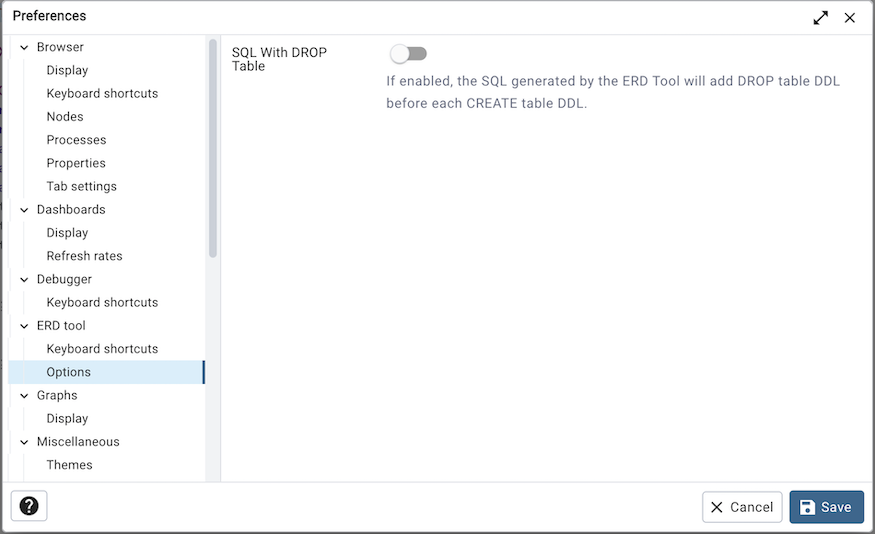
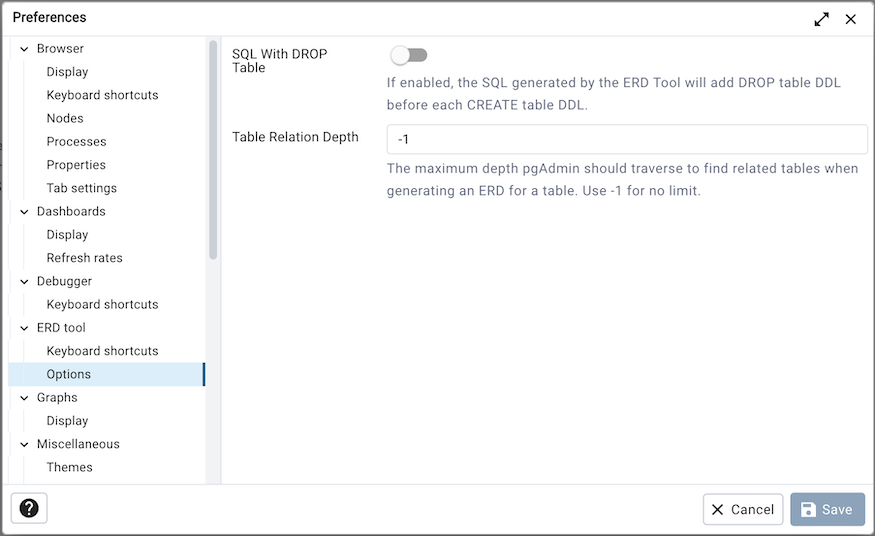
Allow to generate ERD for a table. #4756

diff --git a/web/pgadmin/tools/erd/static/js/erd_tool/components/ERDTool.jsx b/web/pgadmin/tools/erd/static/js/erd_tool/components/ERDTool.jsx
@@ -355,7 +355,6 @@ class ERDTool extends React.Component {
     } else {
       window.removeEventListener('beforeunload', this.onBeforeUnload);
     }
-    
   }
 
   componentWillUnmount() {
@@ -660,7 +659,7 @@ class ERDTool extends React.Component {
   }
 
   onSQLClick(sqlWithDrop=false) {
-    let scriptHeader = gettext('-- This script was generated by a beta version of the ERD tool in pgAdmin 4.\n');
+    let scriptHeader = gettext('-- This script was generated by the ERD tool in pgAdmin 4.\n');
     scriptHeader += gettext('-- Please log an issue at https://redmine.postgresql.org/projects/pgadmin4/issues/new if you find any bugs, including reproduction steps.\n');
 
     let url = url_for('erd.sql', {
@@ -926,12 +925,18 @@ class ERDTool extends React.Component {
         sgid: parseInt(this.props.params.sgid),
         sid: parseInt(this.props.params.sid),
         did: parseInt(this.props.params.did),
+        scid: this.props.params.scid ? parseInt(this.props.params.scid) : undefined,
+        tid: this.props.params.tid ? parseInt(this.props.params.tid) : undefined,
       });
     } catch (error) {
       this.handleAxiosCatch(error);
     }
     socket?.disconnect();
-    this.diagram.deserializeData(resData);
+    try {
+      this.diagram.deserializeData(resData);
+    } catch (error) {
+      this.handleAxiosCatch(error);
+    }
     this.setLoading(null);
   }
 
@@ -964,6 +969,8 @@ ERDTool.propTypes = {
     sgid: PropTypes.oneOfType([PropTypes.number, PropTypes.string]).isRequired,
     sid: PropTypes.oneOfType([PropTypes.number, PropTypes.string]).isRequired,
     did: PropTypes.oneOfType([PropTypes.number, PropTypes.string]).isRequired,
+    scid: PropTypes.oneOfType([PropTypes.number, PropTypes.string]),
+    tid: PropTypes.oneOfType([PropTypes.number, PropTypes.string]),
     server_type: PropTypes.string.isRequired,
     title: PropTypes.string.isRequired,
     bgcolor: PropTypes.string,

diff --git a/web/pgadmin/browser/server_groups/servers/databases/schemas/tables/static/js/table.js b/web/pgadmin/browser/server_groups/servers/databases/schemas/tables/static/js/table.js
@@ -121,7 +121,11 @@ define('pgadmin.node.table', [
           applies: ['object', 'context'], callback: 'count_table_rows',
           category: 'Count', priority: 2, label: gettext('Count Rows'),
           enable: true,
-        },
+        },{
+          name: 'generate_erd', node: 'table', module: this,
+          applies: ['object', 'context'], callback: 'generate_erd',
+          category: 'erd', priority: 5, label: gettext('ERD For Table'),
+        }
         ]);
         pgBrowser.Events.on(
           'pgadmin:browser:node:table:updated', this.onTableUpdated, this
@@ -288,6 +292,14 @@ define('pgadmin.node.table', [
               Notify.pgRespErrorNotify(xhr, error);
               t.unload(i);
             });
+        },
+        /* Generate the ERD */
+        generate_erd: function(args) {
+          let input = args || {},
+            t = pgBrowser.tree,
+            i = input.item || t.selected(),
+            d = i ? t.itemData(i) : undefined;
+          pgAdmin.Tools.ERD.showErdTool(d, i, true);
         },
       },
       getSchema: function(treeNodeInfo, itemNodeData) {

diff --git a/web/pgadmin/static/js/socket_instance.js b/web/pgadmin/static/js/socket_instance.js
@@ -7,6 +7,7 @@
 //
 //////////////////////////////////////////////////////////////
 import { io } from 'socketio';
+import gettext from 'sources/gettext';
 
 export function openSocket(namespace, options) {
   return new Promise((resolve, reject)=>{
@@ -40,6 +41,9 @@ export function socketApiGet(socket, endpoint, params) {
     });
     socket.on(`${endpoint}_failed`, (data)=>{
       reject(data);
+    });
+    socket.on('disconnect', ()=>{
+      reject(gettext('Connection to pgAdmin server has been lost'));
     });
   });
 }

diff --git a/web/regression/javascript/erd/ui_components/ERDTool.spec.js b/web/regression/javascript/erd/ui_components/ERDTool.spec.js
@@ -393,7 +393,7 @@ describe('ERDTool', ()=>{
     bodyInstance.onSQLClick();
 
     setTimeout(()=>{
-      let sql = '-- This script was generated by a beta version of the ERD tool in pgAdmin 4.\n'
+      let sql = '-- This script was generated by the ERD tool in pgAdmin 4.\n'
       + '-- Please log an issue at https://redmine.postgresql.org/projects/pgadmin4/issues/new if you find any bugs, including reproduction steps.\n'
       + 'BEGIN;\nSELECT 1;\nEND;';
 

diff --git a/web/pgadmin/browser/server_groups/servers/databases/static/js/database.js b/web/pgadmin/browser/server_groups/servers/databases/static/js/database.js
@@ -98,7 +98,7 @@ define('pgadmin.node.database', [
         },{
           name: 'generate_erd', node: 'database', module: this,
           applies: ['object', 'context'], callback: 'generate_erd',
-          category: 'erd', priority: 5, label: gettext('Generate ERD'),
+          category: 'erd', priority: 5, label: gettext('ERD For Database'),
           enable: (node) => {
             return node.allowConn;
           }

diff --git a/web/pgadmin/tools/erd/static/js/ERDModule.js b/web/pgadmin/tools/erd/static/js/ERDModule.js
@@ -193,6 +193,11 @@ export default class ERDModule {
       +`&did=${parentData.database._id}`
       +`&gen=${gen}`;
 
+    if(parentData.table) {
+      openUrl += `&scid=${parentData.schema._id}`
+      +`&tid=${parentData.table._id}`;
+    }
+
     return openUrl;
   }
 

diff --git a/web/pgadmin/tools/erd/utils.py b/web/pgadmin/tools/erd/utils.py
@@ -13,6 +13,7 @@ from pgadmin.browser.server_groups.servers.databases.schemas.utils \
     import get_schemas
 from pgadmin.browser.server_groups.servers.databases.schemas.utils \
     import DataTypeReader
+from pgadmin.utils.preferences import Preferences
 
 
 class ERDTableView(BaseTableView, DataTypeReader):
@@ -31,7 +32,7 @@ class ERDTableView(BaseTableView, DataTypeReader):
         return DataTypeReader.get_types(self, self.conn, condition, True)
 
     @BaseTableView.check_precondition
-    def fetch_all_tables(self, conn_id=None, did=None, sid=None):
+    def fetch_all_tables(self, did=None, sid=None):
         status, schemas = get_schemas(self.conn, show_system_objects=False)
         if not status:
             return status, schemas
@@ -46,6 +47,44 @@ class ERDTableView(BaseTableView, DataTypeReader):
             all_tables.extend(res.values())
 
         return True, all_tables
+
+    @BaseTableView.check_precondition
+    def traverse_related_tables(self, did=None, sid=None, scid=None,
+                                tid=None, related={}, maxdepth=0, currdepth=0):
+
+        status, res = \
+            BaseTableView.fetch_tables(self, sid, did, scid, tid=tid)
+
+        if not status:
+            return status, res
+
+        related[tid] = res
+        # Max depth limit reached
+        if currdepth == maxdepth:
+            new_fks = []
+            for fk in related[tid].pop('foreign_key', []):
+                if fk['confrelid'] in related:
+                    new_fks.append(fk)
+
+            related[tid]['foreign_key'] = new_fks
+            return True, None
+
+        status, depending_res = BaseTableView.get_fk_ref_tables(
+            self, tid)
+
+        if not status:
+            return status, depending_res
+
+        for fk in [*res.get('foreign_key', []), *depending_res]:
+            if fk['confrelid'] in related:
+                continue
+            status, res = self.traverse_related_tables(
+                did=did, sid=sid, scid=fk['refnspoid'], tid=fk['confrelid'],
+                related=related, maxdepth=maxdepth, currdepth=currdepth + 1)
+            if not status:
+                return status, res
+
+        return True, None
 
 
 class ERDHelper:
@@ -66,8 +105,18 @@ class ERDHelper:
             data=data, with_drop=with_drop)
         return SQL
 
-    def get_all_tables(self):
-        status, res = self.table_view.fetch_all_tables(
-            conn_id=self.conn_id, did=self.did, sid=self.sid)
-
+    def get_all_tables(self, scid, tid):
+        if tid is None and scid is None:
+            status, res = self.table_view.fetch_all_tables(
+                did=self.did, sid=self.sid)
+        else:
+            prefs = Preferences.module('erd')
+            table_relation_depth = prefs.preference('table_relation_depth')
+            related = {}
+            status, res = self.table_view.traverse_related_tables(
+                did=self.did, sid=self.sid, scid=scid, tid=tid,
+                related=related, maxdepth=table_relation_depth.get()
+            )
+            if status:
+                res = list(related.values())
         return status, res

diff --git a/web/pgadmin/tools/erd/__init__.py b/web/pgadmin/tools/erd/__init__.py
@@ -386,6 +386,20 @@ class ERDModule(PgAdminModule):
             )
         )
 
+        self.preference.register(
+            'options',
+            'table_relation_depth',
+            gettext('Table Relation Depth'),
+            'integer',
+            -1,
+            category_label=PREF_LABEL_OPTIONS,
+            help_str=gettext(
+                'The maximum depth pgAdmin should traverse to find '
+                'related tables when generating an ERD for a table. '
+                'Use -1 for no limit.'
+            )
+        )
+
 
 blueprint = ERDModule(MODULE_NAME, __name__, static_url_path='/static')
 
@@ -621,7 +635,9 @@ def tables(params):
     try:
         helper = ERDHelper(params['trans_id'], params['sid'], params['did'])
         _get_connection(params['sid'], params['did'], params['trans_id'])
-        status, tables = helper.get_all_tables()
+
+        status, tables = helper.get_all_tables(params.get('scid', None),
+                                               params.get('tid', None))
 
         if not status:
             socketio.emit('tables_failed', tables,

diff --git a/web/pgadmin/browser/server_groups/servers/databases/schemas/tables/utils.py b/web/pgadmin/browser/server_groups/servers/databases/schemas/tables/utils.py
@@ -395,6 +395,22 @@ class BaseTableView(PGChildNodeView, BasePartitionTable, VacuumSettings):
             status=200
         )
 
+    def get_fk_ref_tables(self, tid):
+        """
+        This function get the depending tables of the current table.
+        The tables depending on tid table using FK relation.
+        Args:
+            tid: Table ID
+        """
+        sql = render_template("/".join([self.table_template_path,
+                                        'fk_ref_tables.sql']), oid=tid)
+
+        status, res = self.conn.execute_dict(sql)
+        if not status:
+            return status, res
+
+        return status, res['rows']
+
     def get_table_statistics(self, scid, tid):
         """
         Statistics

diff --git a/docs/en_US/preferences.rst b/docs/en_US/preferences.rst
@@ -196,6 +196,10 @@ Use the fields on the *Options* panel to manage ERD preferences.
   generated by the ERD Tool will add DROP table DDL before each CREATE
   table DDL.
 
+* *Table Relation Depth* is useful when generating an ERD for a table.
+  It allows to set the limit on the depth level pgAdmin should traverse
+  to find the relations. Use -1 to set no limit.
+
 The Graphs Node
 ***************
 
